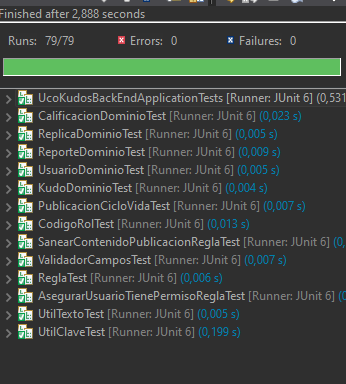
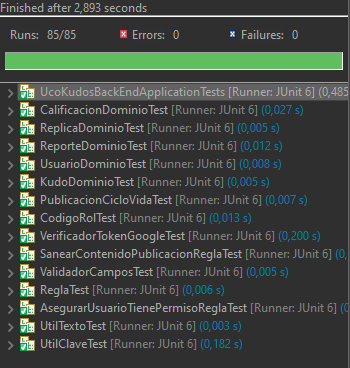
docs: Se documenta el inicio de sesión con Google y se agregan sus evidencias

diff --git a/docs/18_manual_puesta_a_punto.md b/docs/18_manual_puesta_a_punto.md
@@ -117,11 +117,12 @@ La conexión a la base de datos **no** está escrita en el código ni en `applic
 | `KUDOS_DB_URL` | `jdbc:postgresql://localhost:5432/kudos?currentSchema=kudos` | Dirección de la base de datos y esquema |
 | `KUDOS_DB_USUARIO` | `postgres` | Usuario de PostgreSQL |
 | `KUDOS_DB_CLAVE` | *(la clave de tu PostgreSQL)* | Clave de ese usuario |
+| `KUDOS_GOOGLE_CLIENT_ID` | `xxxx.apps.googleusercontent.com` | ID de cliente de Google para iniciar sesión con Google (ver 4.5). Sin ella, el inicio con Google responde un error controlado y el resto funciona igual. |
 
 ### 4.1 En Eclipse
 
 1. *Run → Run Configurations… → Spring Boot App* (o *Java Application*) → `UcoKudosBackEndApplication`.
-2. Pestaña **Environment** → *Add…* y agregar las tres variables.
+2. Pestaña **Environment** → *Add…* y agregar las cuatro variables.
 3. *Apply*.
 
 ### 4.2 En la terminal (para ejecutar con Maven o el `.jar`)
@@ -132,6 +133,7 @@ Windows (PowerShell), válido para esa ventana:
 $env:KUDOS_DB_URL="jdbc:postgresql://localhost:5432/kudos?currentSchema=kudos"
 $env:KUDOS_DB_USUARIO="postgres"
 $env:KUDOS_DB_CLAVE="tu_clave"
+$env:KUDOS_GOOGLE_CLIENT_ID="tu_id_de_cliente.apps.googleusercontent.com"
 ```
 
 Linux / macOS:
@@ -140,6 +142,7 @@ Linux / macOS:
 export KUDOS_DB_URL="jdbc:postgresql://localhost:5432/kudos?currentSchema=kudos"
 export KUDOS_DB_USUARIO="postgres"
 export KUDOS_DB_CLAVE="tu_clave"
+export KUDOS_GOOGLE_CLIENT_ID="tu_id_de_cliente.apps.googleusercontent.com"
 ```
 
 ### 4.3 Otros parámetros (`src/main/resources/application.properties`)
@@ -157,6 +160,24 @@ export KUDOS_DB_CLAVE="tu_clave"
 | `liveServer.settings.host` | `localhost` | Con `127.0.0.1` el navegador lo toma como otro origen y bloquea las peticiones |
 
 La dirección del Back-End está en `js/api.js` (`API_URL = "http://localhost:8080/api/v1"`).
+
+### 4.5 Inicio de sesión con Google
+
+1. Entrar a [Google Cloud Console](https://console.cloud.google.com) y crear un proyecto (por ejemplo, `UCO Kudos`).
+2. *APIs y servicios → Pantalla de consentimiento de OAuth*: tipo **Externo**, nombre de la aplicación y correo de soporte. Agregar como **usuarios de prueba** los Gmail que van a ingresar.
+3. *Credenciales → Crear credenciales → ID de cliente de OAuth*, tipo **Aplicación web**, con los orígenes de JavaScript autorizados `http://localhost:5173` y `http://localhost`.
+4. Copiar el **ID de cliente** en dos lugares:
+   1. Back-End: la variable `KUDOS_GOOGLE_CLIENT_ID` (punto 4.1 o 4.2).
+   2. Front-End: la constante `GOOGLE_CLIENT_ID`, en la primera línea de `js/login.js`.
+5. Permitir el dominio del correo. El parámetro `DOMINIO_CORREO_INSTITUCIONAL` acepta varios dominios separados por coma; en los datos de prueba ya viene `uco.edu.co,gmail.com`. En una base de datos creada antes:
+
+   ```sql
+   UPDATE kudos.parametro_sistema
+   SET valor = 'uco.edu.co,gmail.com'
+   WHERE clave = 'DOMINIO_CORREO_INSTITUCIONAL';
+   ```
+
+6. El correo de Google debe pertenecer a un usuario **registrado y activo**: Google solo comprueba quién es la persona, no crea cuentas. Para probar, se puede crear el usuario con el registro normal o con un `INSERT` en la tabla `usuario`.
 
 ---
 
@@ -277,6 +298,10 @@ El Front-End son archivos estáticos, así que se pueden publicar en cualquier s
 | `Port 8080 was already in use` | Otra instancia del Back-End sigue abierta | Detenerla en Eclipse (botón rojo) o cambiar `server.port` |
 | Después de reiniciar el Back-End todo responde 401 | Las sesiones se guardan en memoria | Cerrar sesión e iniciar de nuevo |
 | "Su cuenta aún no está activa" | Falta aprobar la solicitud o verificar el correo o el celular | Aprobar con el rol correspondiente y verificar con el código |
+| El botón de Google no aparece | Sin conexión a internet o el script de Google bloqueado | Revisar la conexión y la consola del navegador (F12) |
+| Google muestra "Error 400: origin_mismatch" | El origen del Front no está autorizado en el ID de cliente | Agregar `http://localhost:5173` y `http://localhost` en los orígenes autorizados |
+| "El inicio de sesión con Google no está configurado" | Falta la variable `KUDOS_GOOGLE_CLIENT_ID` en el Back-End | Agregarla (punto 4.1) y reiniciar el Back-End |
+| Con Google responde "No existe una cuenta registrada con el correo…" | El Gmail no pertenece a ningún usuario de Kudos | Registrar ese usuario o usar un correo registrado |
 | No llega el código de verificación | El envío es simulado | El código aparece en la consola del Back-End |
 | Un estudiante nuevo no aparece en Solicitudes | Lo aprueba el Coordinador del programa elegido, no el Administrador | Entrar con el coordinador de ese programa (Paula para Ing. de Sistemas) |
 | El navegador muestra una versión vieja de una página | Caché del navegador | Recargar con **Ctrl + F5** |

diff --git a/docs/16_pruebas.md b/docs/16_pruebas.md
@@ -28,10 +28,11 @@ Ubicación: `src/test/java/co/edu/uco/kudos/`. `FabricaDominioPrueba` construye 
 | `AsegurarUsuarioTienePermisoReglaTest` | Permisos por rol. | 3 |
 | `SanearContenidoPublicacionReglaTest` | Quita etiquetas HTML y rechaza el contenido vacío. | 5 |
 | `ValidadorCamposTest` | Campos obligatorios, longitud, formato del celular e identificador por defecto. | 5 |
-| `UtilTextoTest` | Mayúscula inicial, nulos sin `NullPointerException`, limpieza para el log (corrección de SonarQube), formatos de correo y clave. | 8 |
+| `UtilTextoTest` | Mayúscula inicial, nulos sin `NullPointerException`, limpieza para el log (corrección de SonarQube), formatos de correo y clave, `textoDeEnum` y correo en varios dominios permitidos. | 10 |
+| `VerificadorTokenGoogleTest` | Inicio de sesión con Google: acepta un token válido de la aplicación; rechaza un token de otra aplicación y un correo sin verificar; lee los campos de la respuesta de Google. | 4 |
 | `UtilClaveTest` | Cifrado BCrypt y código de verificación de 6 dígitos. | 6 |
 | `UcoKudosBackEndApplicationTests` | El contexto de Spring Boot arranca. | 1 |
-| **Total** | | **79** |
+| **Total** | | **85** |
 
 ### Técnicas usadas
 
@@ -45,7 +46,7 @@ Ubicación: `src/test/java/co/edu/uco/kudos/`. `FabricaDominioPrueba` construye 
 
 ### Resultado
 
-**79 de 79 pruebas exitosas, 0 errores y 0 fallas**, en menos de 4 segundos.
+**85 de 85 pruebas exitosas, 0 errores y 0 fallas**, en menos de 4 segundos.
 
 ![Resultado JUnit](evidencias/junit_resultados.png)
 

diff --git a/docs/14_calidad.md b/docs/14_calidad.md
@@ -9,7 +9,7 @@ Cómo se atiende cada criterio de calidad de la rúbrica (CAL-001 a CAL-007).
 | **CAL-003 Reutilización** | Reglas reutilizables (`Regla<T>`), `FachadaBase`, `UtilTexto`/`UtilUUID`/`UtilFecha`, `ValidadorCampos`; en el Front, `api.js` y `ui.js`. | Secciones 12 y 13 |
 | **CAL-004 Bajo acoplamiento** | El negocio depende de `DAOFactory` y no de PostgreSQL; eventos con Observer; el Front solo conoce la API por `api.js`. | Sección 13.3 (D de SOLID) |
 | **CAL-005 Alta cohesión** | Cada clase agrupa lo de un solo concepto: el ciclo de vida de la publicación vive en `PublicacionDominio`; los permisos en `CodigoRol`. | Sección 9 |
-| **CAL-006 Testabilidad** | Dominio sin dependencias externas, así que se prueba sin base de datos; reglas con instancia única fácil de llamar. | 80 pruebas JUnit, 100 % exitosas (sección 16) |
+| **CAL-006 Testabilidad** | Dominio sin dependencias externas, así que se prueba sin base de datos; reglas con instancia única fácil de llamar. | 85 pruebas JUnit, 100 % exitosas (sección 16) |
 | **CAL-007 Evolución** | Agregar un suscriptor, un rol, un permiso o un motor de base de datos no obliga a reescribir lo existente; la matriz de aprobaciones es un dato. | Sección 13.3 (O de SOLID) |
 
 ## 14.1 Clean Code aplicado

diff --git a/docs/17_conclusiones.md b/docs/17_conclusiones.md
@@ -2,10 +2,10 @@
 
 ## 17.1 Resultados
 
-1. Se construyó una plataforma **completamente funcional**: registro con aprobación y verificación, Kudos, conversaciones en árbol, calificaciones, reportes, vetos, notificaciones, auditoría y administración de la estructura.
+1. Se construyó una plataforma **completamente funcional**: registro con aprobación y verificación, inicio de sesión con correo y clave o con Google, Kudos, conversaciones en árbol, calificaciones, reportes, vetos, notificaciones, auditoría y administración de la estructura.
 2. El **Back-End** sigue una arquitectura en capas con dominio enriquecido, transacciones por caso de uso, eventos (Observer) y seguridad por permisos.
 3. El **Front-End** es sencillo y funcional: 11 páginas que consumen la API y muestran a cada rol solo lo que le corresponde.
-4. La calidad se verificó con **80 pruebas unitarias** (100 % exitosas), pruebas de integración con Bruno y **SonarQube** con el Quality Gate en *Passed*.
+4. La calidad se verificó con **85 pruebas unitarias** (100 % exitosas), pruebas de integración con Bruno y **SonarQube** con el Quality Gate en *Passed*.
 
 ## 17.2 Aprendizajes
 

diff --git a/docs/12_arquitectura.md b/docs/12_arquitectura.md
@@ -84,6 +84,7 @@ El usuario siempre ve un mensaje claro; el detalle técnico queda solo en el log
 |---|---|
 | Contraseñas | Cifradas con **BCrypt** (`UtilClave`); nunca se guardan ni se devuelven en texto plano. |
 | Sesión | Al iniciar sesión se crea un token aleatorio guardado en memoria (`GestorSesiones`), vigente 8 horas. Se envía como `Authorization: Bearer <token>`. |
+| Inicio de sesión con Google | El Front obtiene un token de Google (Google Identity Services) y lo envía a `POST /sesiones/google`. `VerificadorTokenGoogle` lo valida con Google (`tokeninfo`), comprueba que sea para el ID de cliente de la aplicación (`KUDOS_GOOGLE_CLIENT_ID`) y que el correo esté verificado. Después se aplican las mismas validaciones del inicio de sesión normal (usuario registrado y cuenta activa). |
 | Permisos | Cada operación protegida llama a `AsegurarUsuarioTienePermisoRegla` con el permiso que exige. |
 | CORS | Solo se aceptan peticiones del origen del Front (`kudos.cors.origen-permitido`). |
 | Contenido | Se quitan etiquetas HTML (`SanearContenidoPublicacionRegla`) y el Front muestra todo con `textContent` (contra XSS). |

diff --git a/docs/19_evidencias.md b/docs/19_evidencias.md
@@ -174,6 +174,8 @@ Además, la sección 19.11 muestra 4 **hallazgos** que aparecieron durante las p
 | 48 | Conversación | Árbol de réplicas, calificación, reportar (motivo obligatorio) |
 | 49 | Administración | Categorías con editar, activar y desactivar |
 | 50 | Auditoría | Registro de operaciones con usuario, acción y valores anterior y nuevo |
+| 51 | Botón de Google | El inicio de sesión ofrece correo y clave o Google |
+| 52 | Ingreso con Google | Un usuario registrado con Gmail entra con su cuenta de Google y ve su rol |
 
 ![Login](evidencias/pruebas/front_01_login.png)
 ![Inicio Administrador](evidencias/pruebas/front_02_inicio_administrador.png)
@@ -183,6 +185,8 @@ Además, la sección 19.11 muestra 4 **hallazgos** que aparecieron durante las p
 ![Conversación](evidencias/pruebas/front_06_conversacion.png)
 ![Administración](evidencias/pruebas/front_07_administracion.png)
 ![Auditoría](evidencias/pruebas/front_08_auditoria.png)
+![Botón de Google](evidencias/pruebas/front_09_boton_google.png)
+![Ingreso con Google](evidencias/pruebas/front_10_login_google.png)
 
 ## 19.11 Hallazgos durante las pruebas
 

diff --git a/docs/10_diagramas_uml.md b/docs/10_diagramas_uml.md
@@ -46,6 +46,7 @@ Los casos CU-001 a CU-015 vienen del enunciado. Los CU-016 a CU-025 se agregaron
 | CU-016 Registrarse | `POST /api/v1/usuarios` | `UsuarioNegocioImpl.registrarUsuario` |
 | CU-017 Verificar correo y celular | `POST /api/v1/usuarios/verificaciones` | `VerificacionContactoNegocioImpl.verificarCodigo` |
 | CU-018 Iniciar sesión | `POST /api/v1/sesiones` | `UsuarioNegocioImpl.iniciarSesion` |
+| CU-018 Iniciar sesión con Google | `POST /api/v1/sesiones/google` | `VerificadorTokenGoogle.obtenerCorreoVerificado`, `UsuarioNegocioImpl.iniciarSesionConGoogle` |
 | CU-019 Mi información | `GET` y `PUT /api/v1/usuarios/yo` | `UsuarioNegocioImpl.actualizarMiInformacion` |
 | CU-020 Decidir solicitud | `POST /api/v1/solicitudes/{id}/aprobar` y `/rechazar` | `SolicitudRegistroNegocioImpl` |
 | CU-021 Gestionar categorías | `POST`, `PUT`, `PATCH /api/v1/categorias` | `CategoriaNegocioImpl` |

diff --git a/docs/20_trazabilidad.md b/docs/20_trazabilidad.md
@@ -126,6 +126,16 @@ Relaciona cada **requisito funcional** con sus **reglas de negocio**, **casos de
 
 ---
 
+## Funcionalidad adicional
+
+No es un RF del enunciado; se agregó por indicación del profesor.
+
+| Funcionalidad | CU | Clases | Componente | Pruebas | Evidencia | Estado |
+|---|---|---|---|---|---|---|
+| Iniciar sesión con Google | CU-018 | `VerificadorTokenGoogle`, `UsuarioNegocioImpl.iniciarSesionConGoogle`, `UtilTexto.correoPerteneceADominios` | `POST /sesiones/google` · `index.html` | `VerificadorTokenGoogleTest`, `UtilTextoTest` | Front #51, #52 | ✅ |
+
+---
+
 ## 20.7 Resumen
 
 | Estado | Cantidad | Requisitos |
